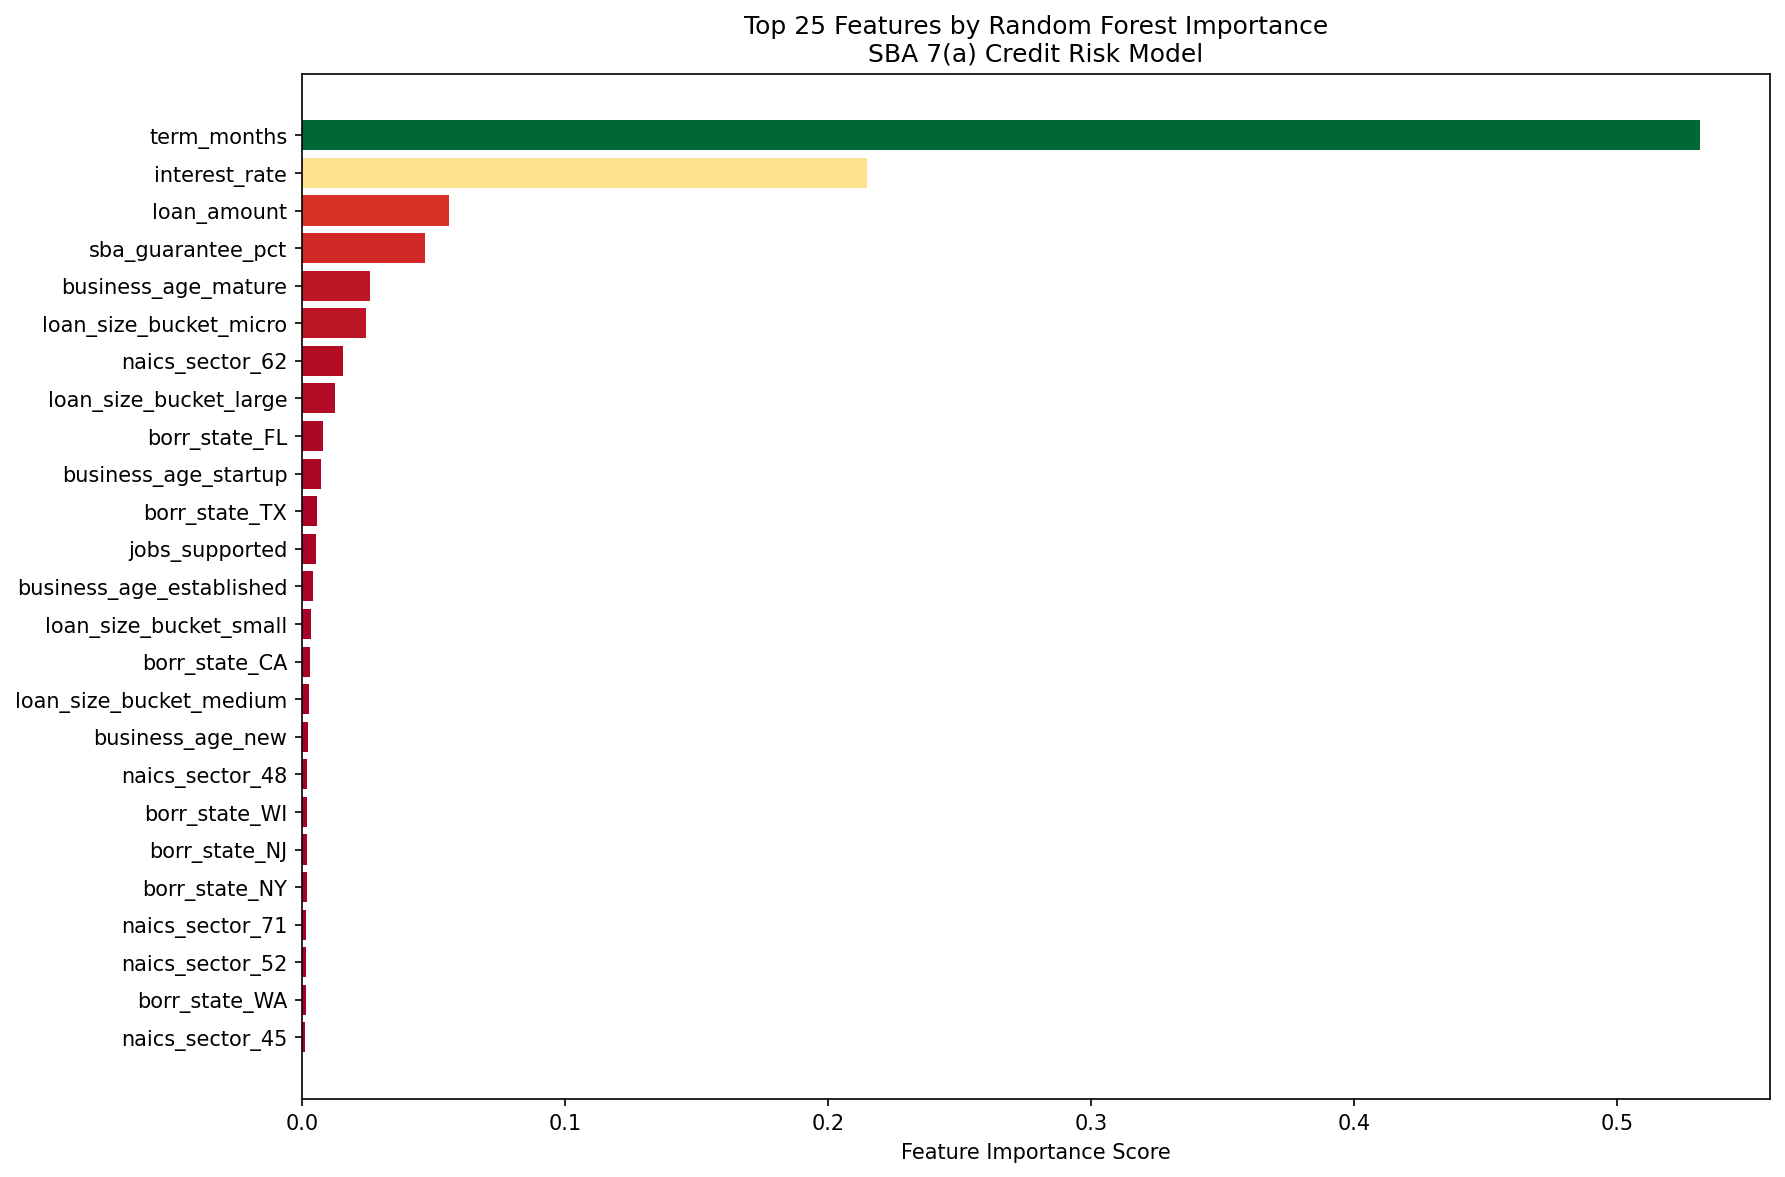
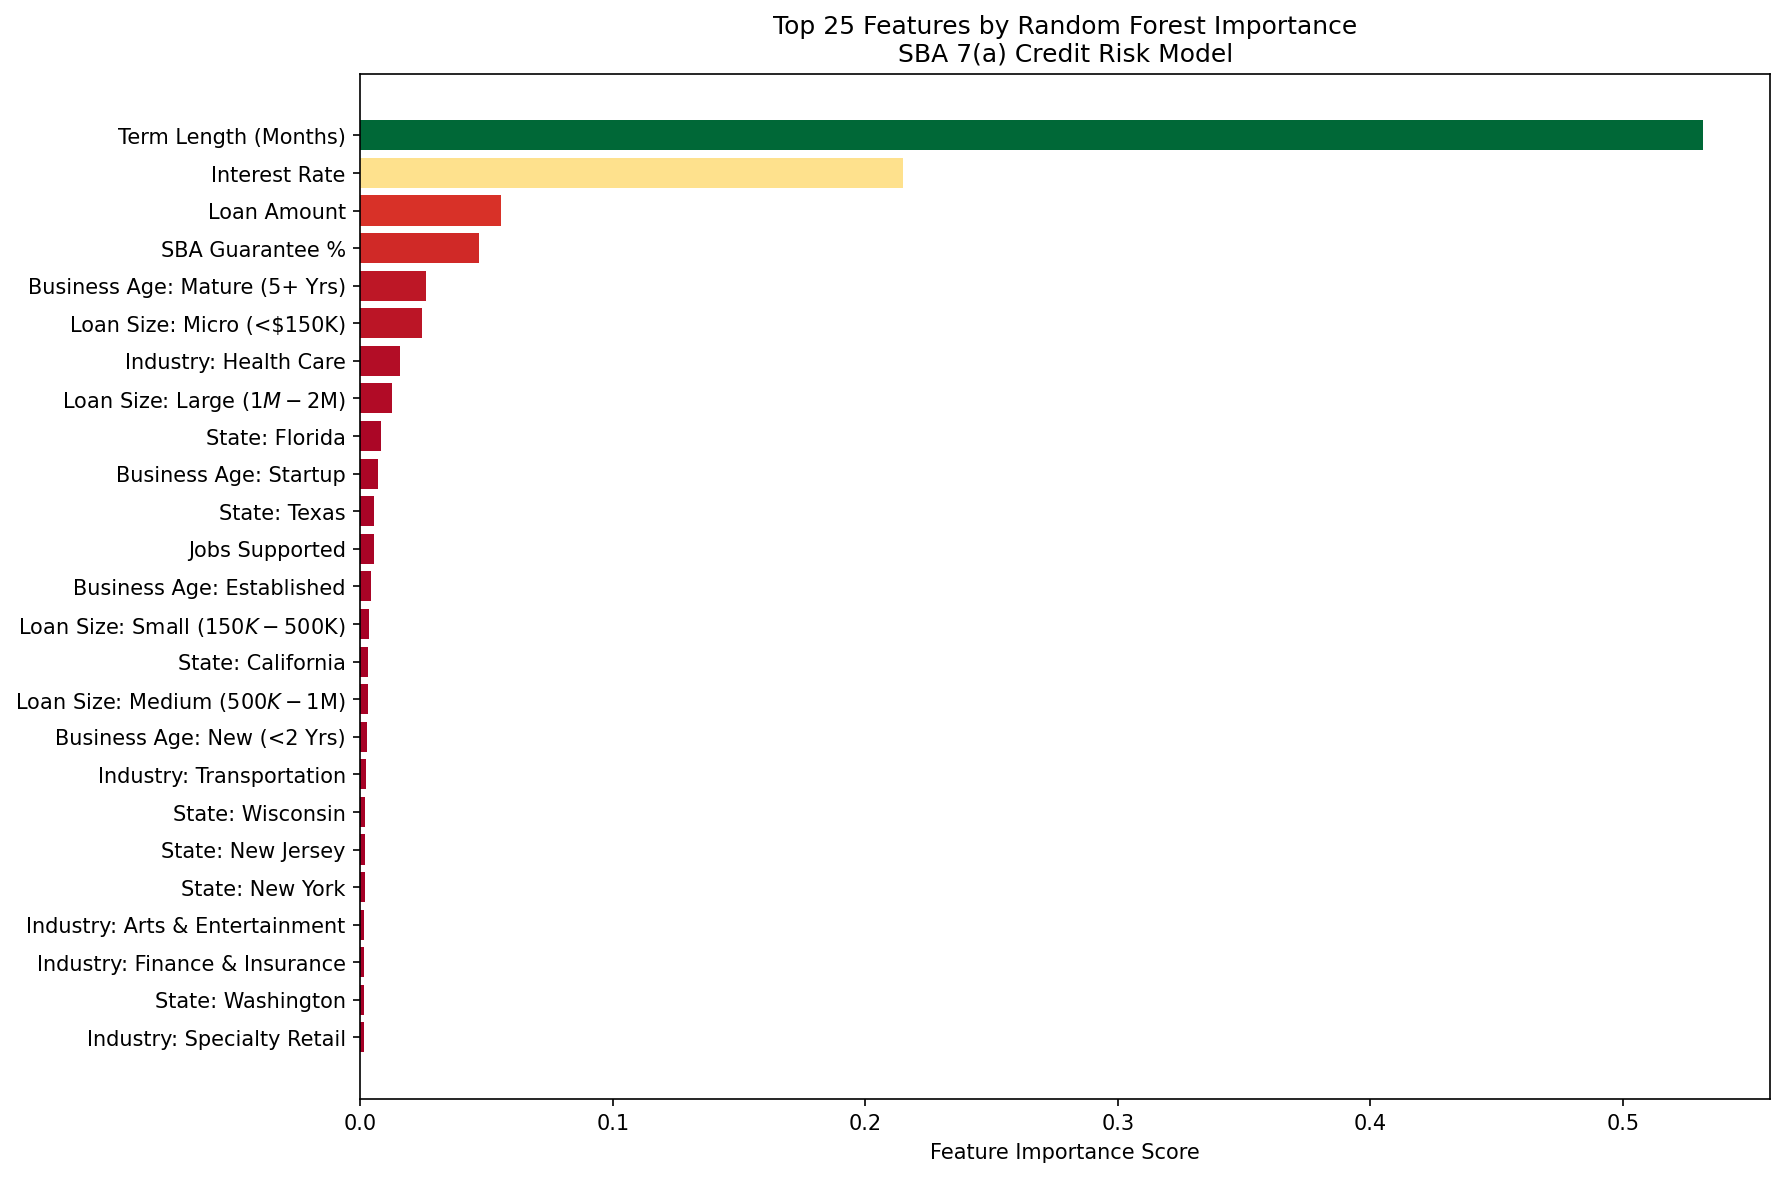
style(charts): map technical feature codes to human-readable labels on importance chart

diff --git a/phase3_feature_engineering.py b/phase3_feature_engineering.py
@@ -357,13 +357,46 @@ def rank_feature_importance(X_train, y_train):
     # --- SAVE IMPORTANCE CHART ---
     top_features = importance_df.head(25)
 
+    # Clean up feature names for display
+    label_map = {
+        "term_months":              "Term Length (Months)",
+        "interest_rate":            "Interest Rate",
+        "loan_amount":              "Loan Amount",
+        "sba_guarantee_pct":        "SBA Guarantee %",
+        "business_age_mature":      "Business Age: Mature (5+ Yrs)",
+        "loan_size_bucket_micro":   "Loan Size: Micro (<$150K)",
+        "naics_sector_62":          "Industry: Health Care",
+        "loan_size_bucket_large":   "Loan Size: Large ($1M-$2M)",
+        "borr_state_FL":            "State: Florida",
+        "business_age_startup":     "Business Age: Startup",
+        "borr_state_TX":            "State: Texas",
+        "jobs_supported":           "Jobs Supported",
+        "business_age_established": "Business Age: Established",
+        "loan_size_bucket_small":   "Loan Size: Small ($150K-$500K)",
+        "borr_state_CA":            "State: California",
+        "loan_size_bucket_medium":  "Loan Size: Medium ($500K-$1M)",
+        "business_age_new":         "Business Age: New (<2 Yrs)",
+        "naics_sector_48":          "Industry: Transportation",
+        "borr_state_WI":            "State: Wisconsin",
+        "borr_state_NJ":            "State: New Jersey",
+        "borr_state_NY":            "State: New York",
+        "naics_sector_71":          "Industry: Arts & Entertainment",
+        "naics_sector_52":          "Industry: Finance & Insurance",
+        "borr_state_WA":            "State: Washington",
+        "naics_sector_45":          "Industry: Specialty Retail",
+    }
+
+    top_features["feature_label"] = top_features["feature"].map(
+        label_map
+    ).fillna(top_features["feature"])
+
     plt.figure(figsize=(12, 8))
     colors = plt.cm.RdYlGn(
         [x / top_features["importance"].max()
          for x in top_features["importance"]]
     )
     bars = plt.barh(
-        top_features["feature"][::-1],
+        top_features["feature_label"][::-1],
         top_features["importance"][::-1],
         color=colors[::-1]
     )